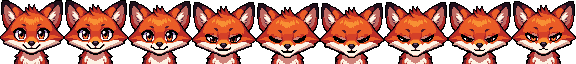
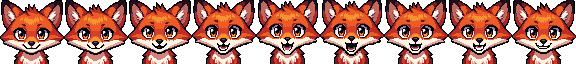
Remap fox expressions and add a thought bubble for questions

diff --git a/relay/public/index.html b/relay/public/index.html
@@ -43,9 +43,13 @@
   .row.stale, .row.ended { opacity: .55; }
   .avatar { width: 96px; height: 96px; border-radius: 18px; background: var(--hue); display: flex; align-items: center; justify-content: center; font-size: 48px; font-weight: 700; color: #0d0f12; margin-left: 8px; box-shadow: 0 0 0 4px var(--accent, var(--grey)); image-rendering: pixelated; }
   .row.needs_permission .avatar:not(.sprite), .row.asking .avatar:not(.sprite) { animation: bob 1s ease-in-out infinite; }
-  .avatar.sprite { background: #0f1216; overflow: hidden; }
-  .avatar.sprite .img { width: 100%; height: 100%; background-image: var(--sheet); background-repeat: no-repeat; background-size: calc(var(--frames) * 100%) 100%; image-rendering: pixelated; animation: sprite var(--dur) steps(var(--frames), jump-none) var(--iter) both; filter: hue-rotate(var(--tint)); }
+  .avatar.sprite { background: #0f1216; position: relative; }
+  .avatar.sprite .img { border-radius: inherit; width: 100%; height: 100%; background-image: var(--sheet); background-repeat: no-repeat; background-size: calc(var(--frames) * 100%) 100%; image-rendering: pixelated; animation: sprite var(--dur) steps(var(--frames), jump-none) var(--iter) both; filter: hue-rotate(var(--tint)); }
   .avatar.sprite.still .img { background-size: 100% 100%; animation: none; }
+  .bubble { position: absolute; top: -14px; right: -14px; width: 40px; height: 36px; border-radius: 50%; background: #f4f1ea; color: #14171c; font-size: 26px; font-weight: 800; line-height: 36px; text-align: center; box-shadow: 0 0 0 3px #14171c; animation: bob 1.2s ease-in-out infinite; }
+  .bubble::before, .bubble::after { content: ""; position: absolute; border-radius: 50%; background: #f4f1ea; box-shadow: 0 0 0 3px #14171c; }
+  .bubble::before { width: 10px; height: 10px; left: -1px; bottom: -6px; }
+  .bubble::after { width: 6px; height: 6px; left: -9px; bottom: -13px; }
   .main { display: flex; flex-direction: column; gap: 6px; min-width: 0; }
   .line1 { display: flex; align-items: baseline; gap: 16px; min-width: 0; white-space: nowrap; }
   .project { font-size: 36px; font-weight: 700; overflow: hidden; text-overflow: ellipsis; flex-shrink: 0; max-width: 60%; }
@@ -140,24 +144,27 @@
 
   function spriteState(s) {
     if (s.state === 'ended') return null;
-    if (s.needsYou) return 'needs_you';
-    if (s.state === 'working' || s.state === 'stale') return s.state;
-    if ((s.detail === 'You said no' || s.detail === 'Interrupted') && Date.now() - Date.parse(s.since) < SHRUG_MS) return 'shrug';
-    return 'waiting';
+    if (s.needsYou) return 'puzzled';
+    if (s.state === 'working') return 'working';
+    if (s.state === 'stale') return 'bored';
+    if ((s.detail === 'You said no' || s.detail === 'Interrupted') && Date.now() - Date.parse(s.since) < SHRUG_MS) return 'puzzled';
+    return 'sleeping';
   }
+
+  const bubbleFor = (s) => (s.state === 'asking' ? '?' : s.state === 'needs_permission' ? '!' : '');
 
   function avatarKey(s) {
     const c = s.character;
     const anim = spriteState(s);
-    return `${s.id}|${c.id}|${c.tint}|${anim && c.states[anim] ? anim : 'still'}`;
+    return `${s.id}|${c.id}|${c.tint}|${anim && c.states[anim] ? anim : 'still'}|${bubbleFor(s)}`;
   }
 
   function makeAvatar(s, key) {
     const c = s.character;
-    const anim = key.split('|')[3];
+    const [, , , anim, bubble] = key.split('|');
     const el = document.createElement('div');
     el.className = 'avatar sprite';
-    el.innerHTML = '<div class="img"></div>';
+    el.innerHTML = `<div class="img"></div>${bubble ? `<div class="bubble">${esc(bubble)}</div>` : ''}`;
     el.style.setProperty('--tint', `${c.tint}deg`);
     if (anim === 'still') {
       el.classList.add('still');
